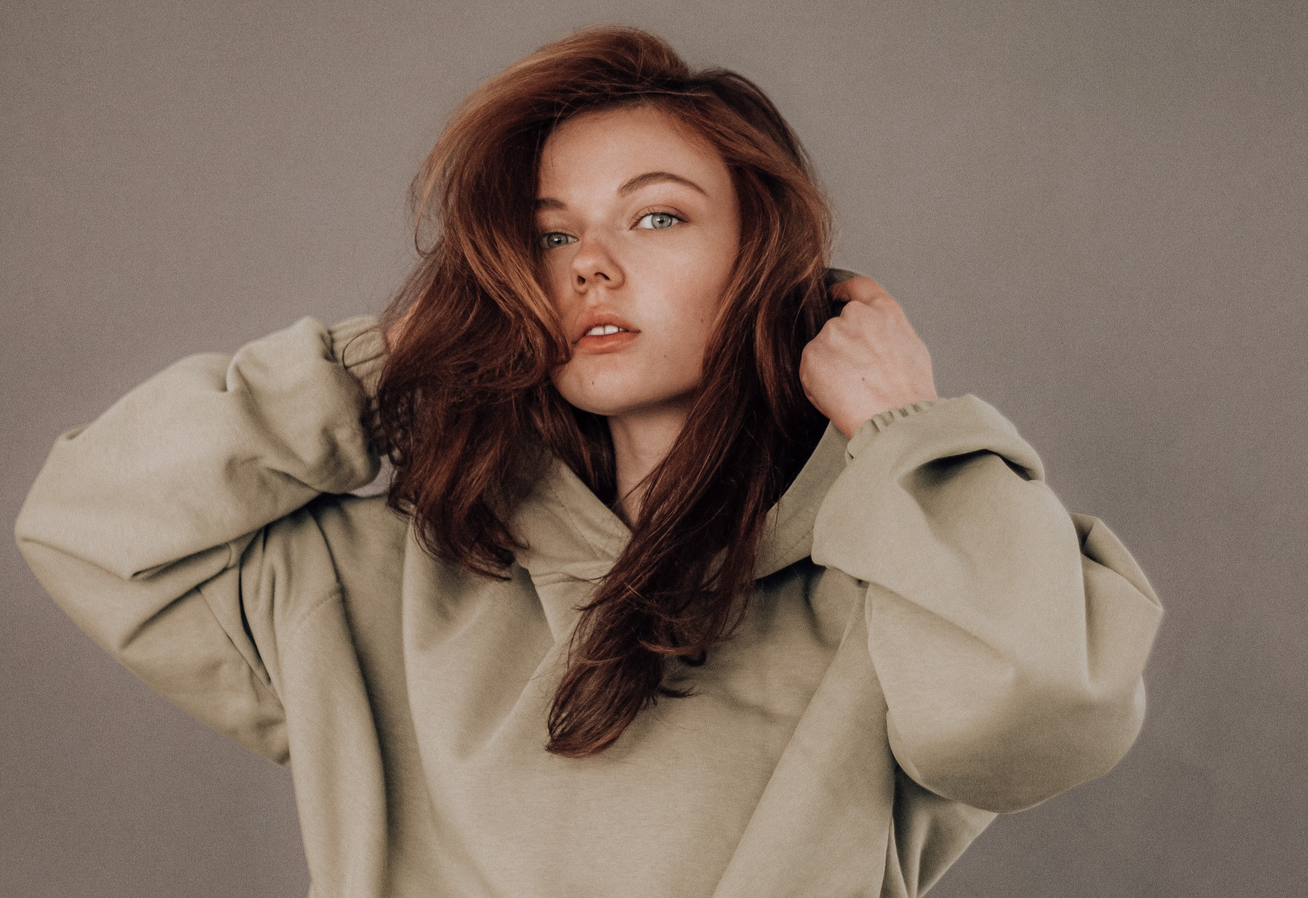
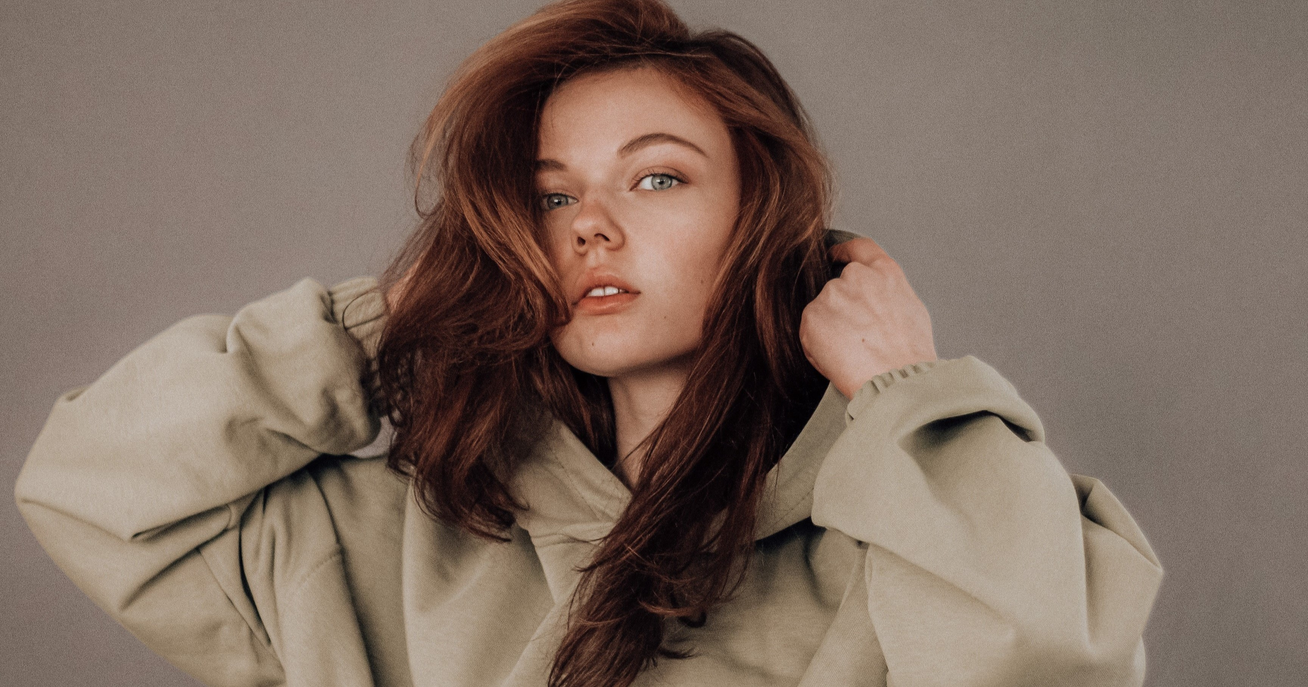
carousel changes

diff --git a/src/pages/HomePage.jsx b/src/pages/HomePage.jsx
@@ -1,53 +1,71 @@
 import React from "react";
 import Carousel from "react-bootstrap/Carousel";
+import '../Styles/HomePage.css';
 import Img1 from '../assets/img/img1.jpg';
 import Img2 from '../assets/img/img2.jpg';
 import Img3 from '../assets/img/img3.jpg';
 import Img4 from '../assets/img/img4.jpg';
+import {Col, Container, Row} from "react-bootstrap";
 
 
-function HomePage() {
+const HomePage = () => {
     return (
-        <div>
+      <Container fluid>
+        <Row className="justify-content-center align-items-center">
+          <Col lg={8}>
             <Carousel>
-                <Carousel.Item>
-                    <img style={{height: '90vh'}}
-                    className="d-block w-100"
-                    src={Img1} 
-                    alt="First slide" 
-                    />
-                    <Carousel.Caption>
-                        <h3>Hodies</h3>
-                        <p>Nulla vitae elit libero, a pharetra augue mollis interdum.</p>
-                    </Carousel.Caption>
-                </Carousel.Item>
-                <Carousel.Item>
-                <img style={{height: '90vh'}}
-                    className="d-block w-100"
-                    src={Img2} 
-                    alt="Second slide" 
-                    />                    
-                    <Carousel.Caption>
-                        <h3>T-shirts</h3>
-                        <p>Lorem ipsum dolor sit amet, consectetur adipiscing elit.</p>
-                    </Carousel.Caption>
-                </Carousel.Item>
-                <Carousel.Item>
-                <img style={{height: '90vh'}}
-                    className="d-block w-100"
-                    src={Img4} 
-                    alt="Third slide" 
-                    />                    <Carousel.Caption>
-                        <h3>Accesories</h3>
-                        <p>
-                            Praesent commodo cursus magna, vel scelerisque nisl consectetur.
-                        </p>
-                    </Carousel.Caption>
-                </Carousel.Item>
+              <Carousel.Item interval={2000}>
+                <img
+                  className="d-block w-100"
+                  src={Img1}
+                  alt="First slide"
+                />
+                <Carousel.Caption>
+                  <h3>Hoodies</h3>
+                  <p className="d-none d-sm-block">
+                    Nulla vitae elit libero, a pharetra augue mollis interdum.
+                  </p>
+                </Carousel.Caption>
+              </Carousel.Item>
+              <Carousel.Item interval={2000}>
+                <img
+                  className="d-block w-100"
+                  src={Img2}
+                  alt="Second slide"
+                />
+  
+                <Carousel.Caption>
+                  <h3>T-shirts</h3>
+                  <p className="d-none d-sm-block">
+                    Lorem ipsum dolor sit amet, consectetur adipiscing elit.
+                  </p>
+                </Carousel.Caption>
+              </Carousel.Item>
+              <Carousel.Item interval={2000}>
+                <img
+                  className="d-block w-100"
+                  src={Img4}
+                  alt="Third slide"
+                />
+  
+                <Carousel.Caption>
+                  <h3>Accesories</h3>
+                  <p className="d-none d-sm-block">
+                    Praesent commodo cursus magna, vel scelerisque nisl
+                    consectetur.
+                  </p>
+                </Carousel.Caption>
+              </Carousel.Item>
             </Carousel>
+          </Col>
+        </Row>
+        <div className="text-center">
+          <h2 className="display-5 mt-3">Unisex style</h2>
+          <p className="lead text-muted">Lorem ipsum dolor sit amet consectetur adipisicing elit. </p>
         </div>
-    )
-};
+      </Container>
+    );
+  };
 
 
 export default HomePage;

diff --git a/src/Styles/HomePage.css b/src/Styles/HomePage.css
@@ -1,0 +1,23 @@
+.carousel-indicators [data-bs-target] {
+    border-radius: 100%;
+    width: 10px;
+    height: 10px;
+}
+.align-items-center {
+    align-items: center !important;
+}
+.justify-content-center {
+    justify-content: center !important;
+}
+.row {
+    --bs-gutter-x: 1.5rem;
+    --bs-gutter-y: 0;
+    display: flex;
+    flex-wrap: wrap;
+    margin-top: calc(-1*var(--bs-gutter-y));
+    margin-right: calc(-0.5*var(--bs-gutter-x));
+    margin-left: calc(-0.5*var(--bs-gutter-x));
+}
+*, *::before, *::after {
+    box-sizing: border-box;
+}

diff --git a/src/router/AppRouter.jsx b/src/router/AppRouter.jsx
@@ -1,4 +1,4 @@
-import { BrowserRouter as Router, Routes, Route, Form} from "react-router-dom";
+import { BrowserRouter as Router, Routes, Route, Form } from "react-router-dom";
 import 'bootstrap/dist/css/bootstrap.min.css';
 import '../Styles/App.css';
 import HomePage from "../pages/HomePage";
